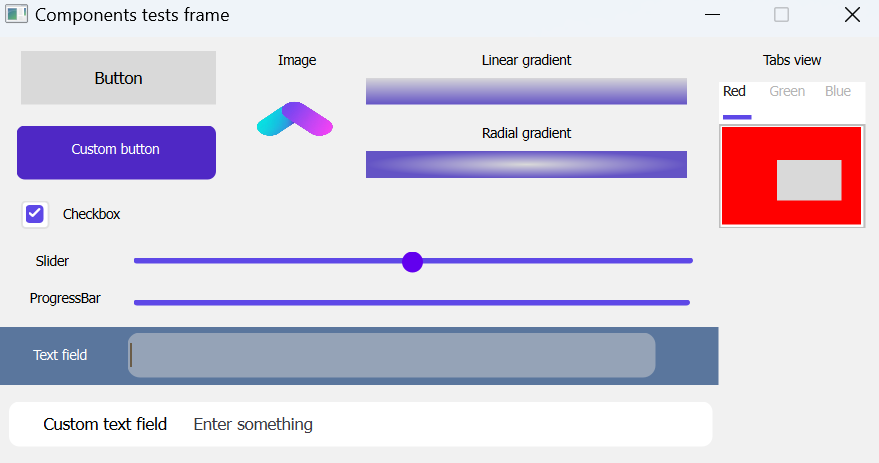
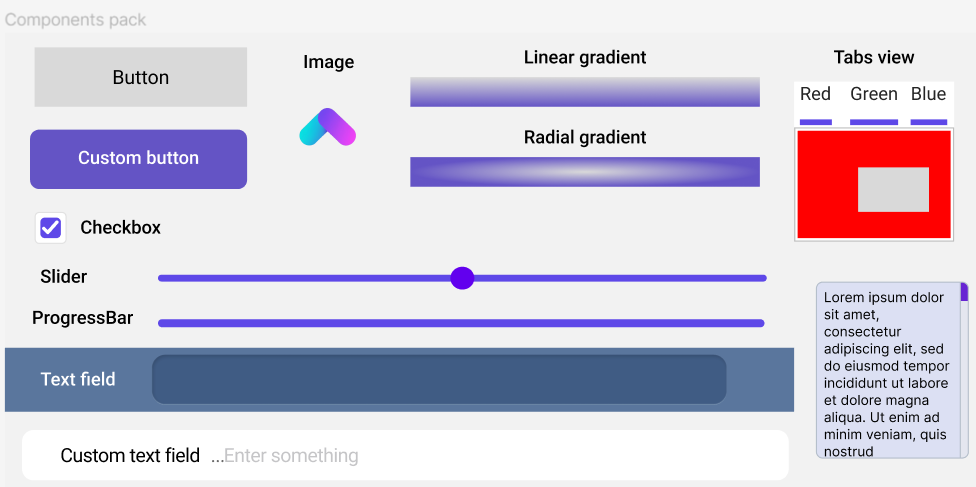
Added scrollview documentation to readme.md

diff --git a/readme.md b/readme.md
@@ -178,16 +178,17 @@ window.
 Component names must start with a prefix indicating their type. Component names are case-insensitive and disregard
 spaces, dashes, and underscores (`  , -, _`).
 
-| Component Type    | Prefix          |
-|-------------------|-----------------|
-| Button            | button          |
-| Custom Button     | custombutton    |
-| Text Field        | textfield       |
-| Custom Text Field | customtextfield |
-| Checkbox          | checkbox        |
-| Tabs view         | tabsview        |
-| Slider            | slider          |
-| Progress Bar      | progressbar     |
+| Component Type         | Prefix          |
+|------------------------|-----------------|
+| Button                 | button          |
+| Custom Button          | custombutton    |
+| Text Field             | textfield       |
+| Custom Text Field      | customtextfield |
+| Checkbox               | checkbox        |
+| Tabs view              | tabsview        |
+| Slider                 | slider          |
+| Progress Bar           | progressbar     |
+| (Vertical) Scroll View | vscrollview     |
 
 ### Hierarchy and Ordering
 
@@ -265,8 +266,19 @@ For progress bars, maintain the following order:
 | -1 (Topmost) | Fill           |
 | ...          | Background...  |
 
-By adhering to these naming conventions and hierarchies, you can make the most of PyQt Figma Designer's capabilities to
-create rich and functional PyQt6 GUIs.
+#### (Vertical) Scroll View
+
+The scroll view group must follow this ordering:
+
+| Child Index  | Child Function |
+|--------------|----------------|
+| -1 (Topmost) | Scroll bar     |
+| -2           | Scroll content |
+| ...          | Background...  |
+
+The scrollbar group must follow slider ordering conventions.
+The scroll view may be a frame inside a frame or a frame inside a group (for making content bigger than the scroll
+view).
 
 ### Writing Custom Components
 
@@ -304,7 +316,8 @@ To create custom components for your GUIs, follow these steps:
     - `generate_controller` (Optional): This function inherited from `DesignGenerator` should
       return an iterator of strings that will populate the file `gui_controller.py`. You should generate controller
       functions
-      using the function `generate_controller_function` from `generator.utils`. You must also setup (connect) your controller
+      using the function `generate_controller_function` from `generator.utils`. You must also setup (connect) your
+      controller
       function that you define in `generate_design`. For this, you can use the function `generate_controller_setup`
       from `generator.utils`.
 
